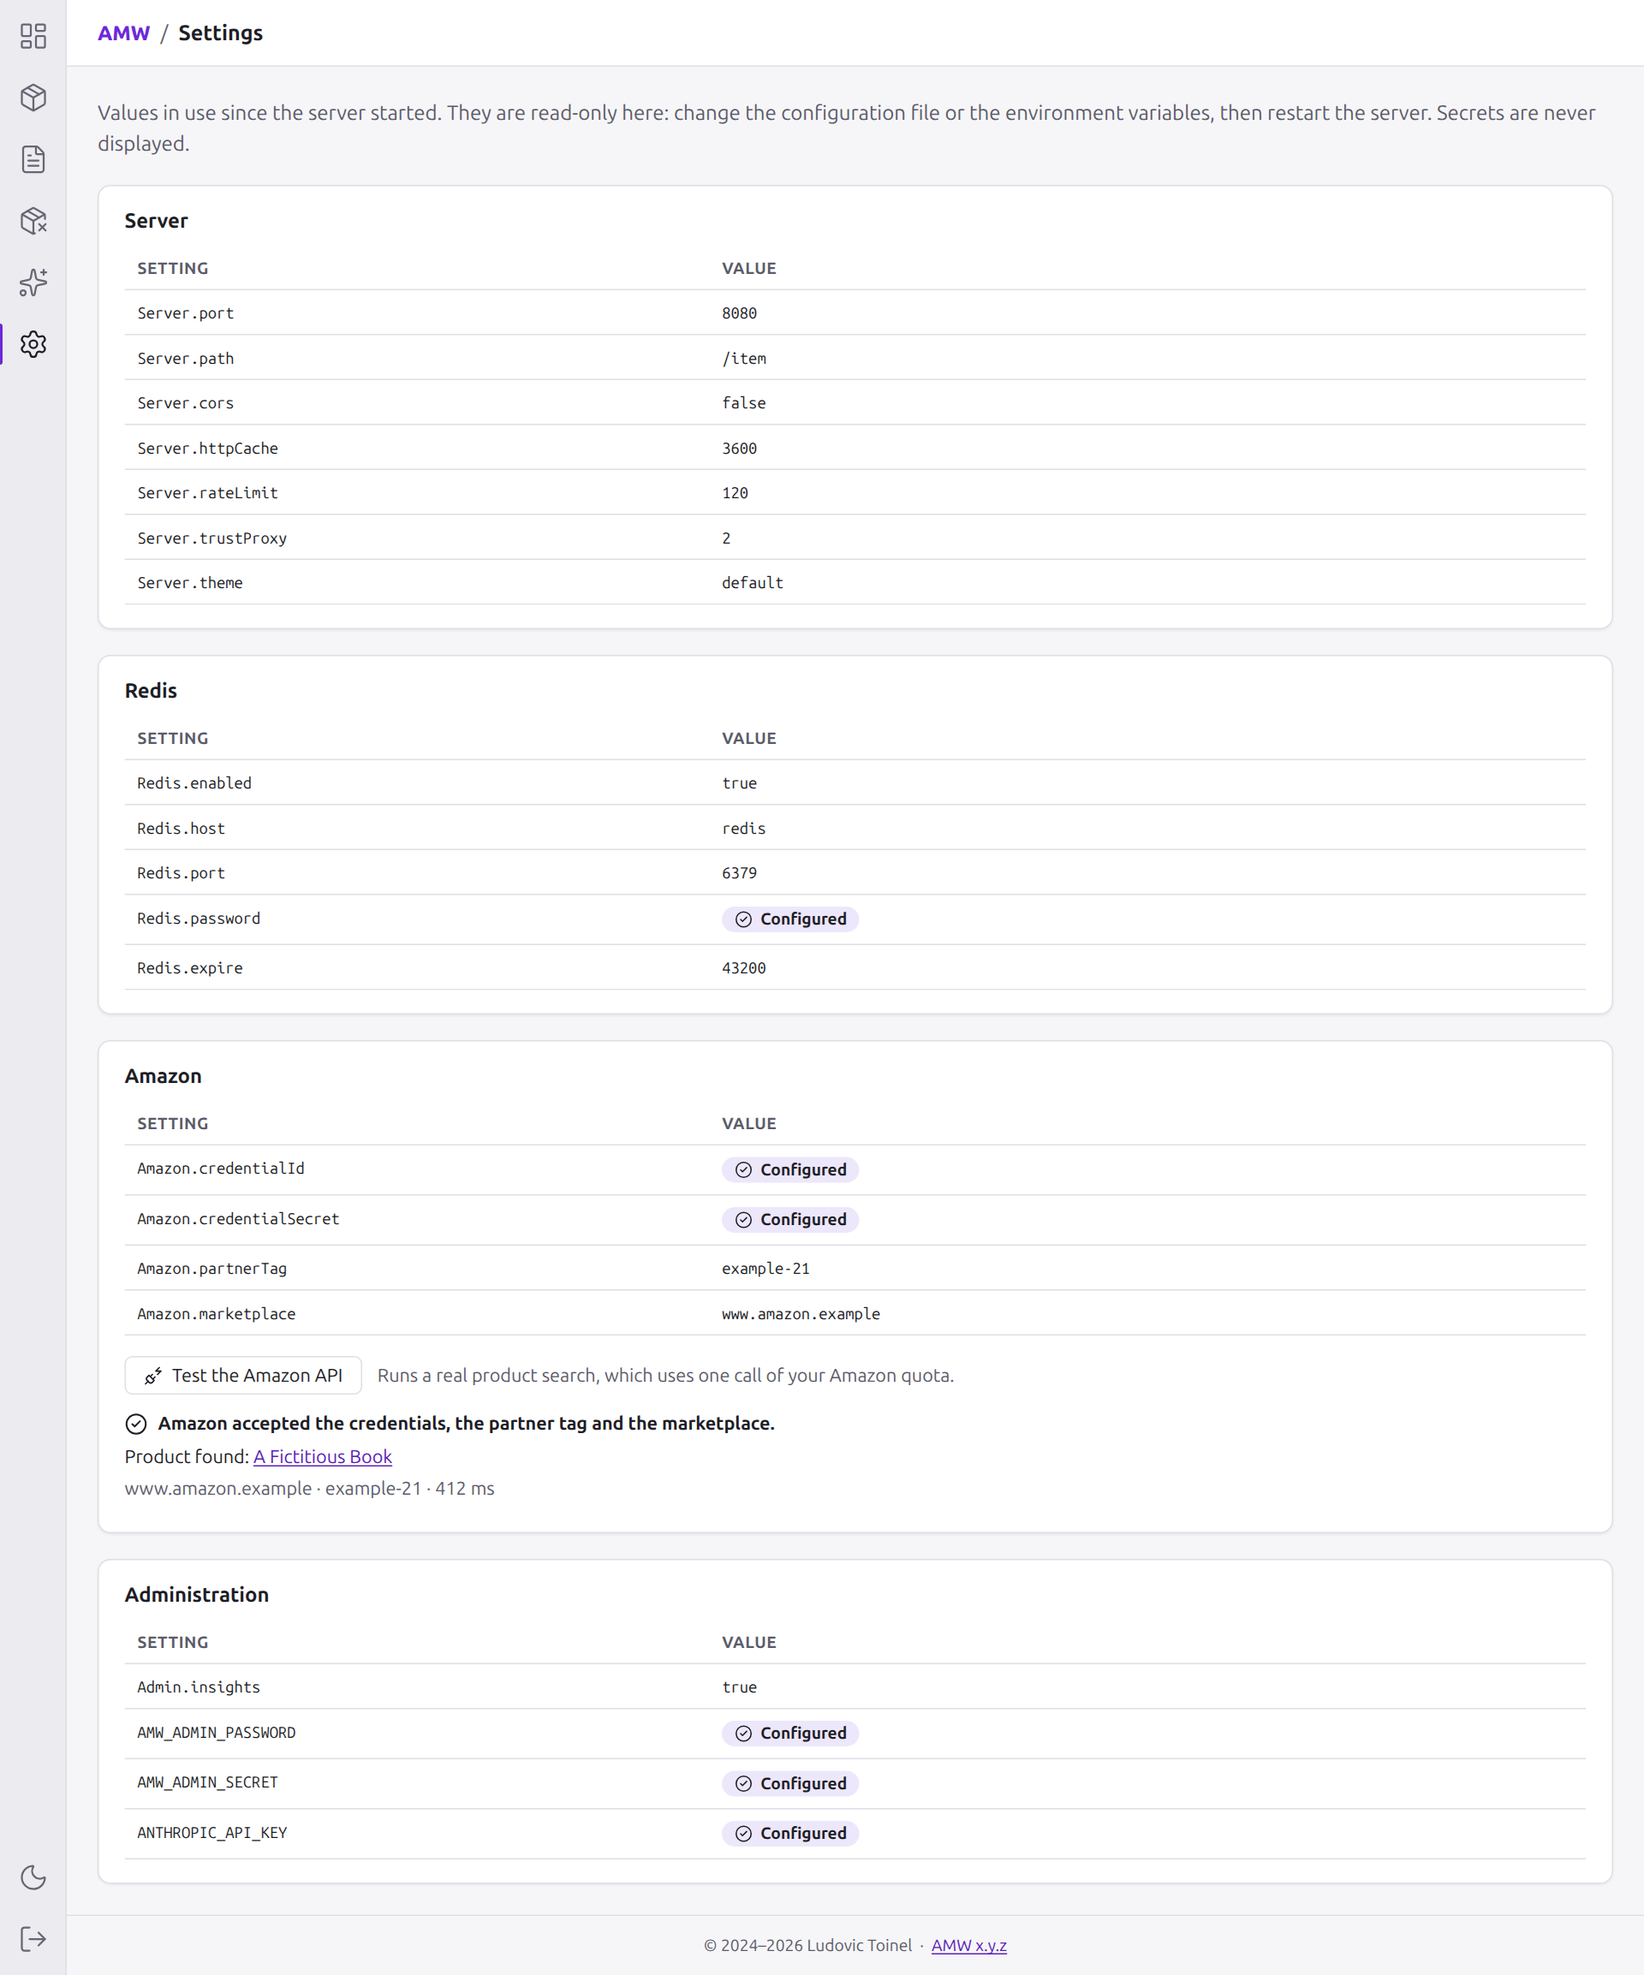
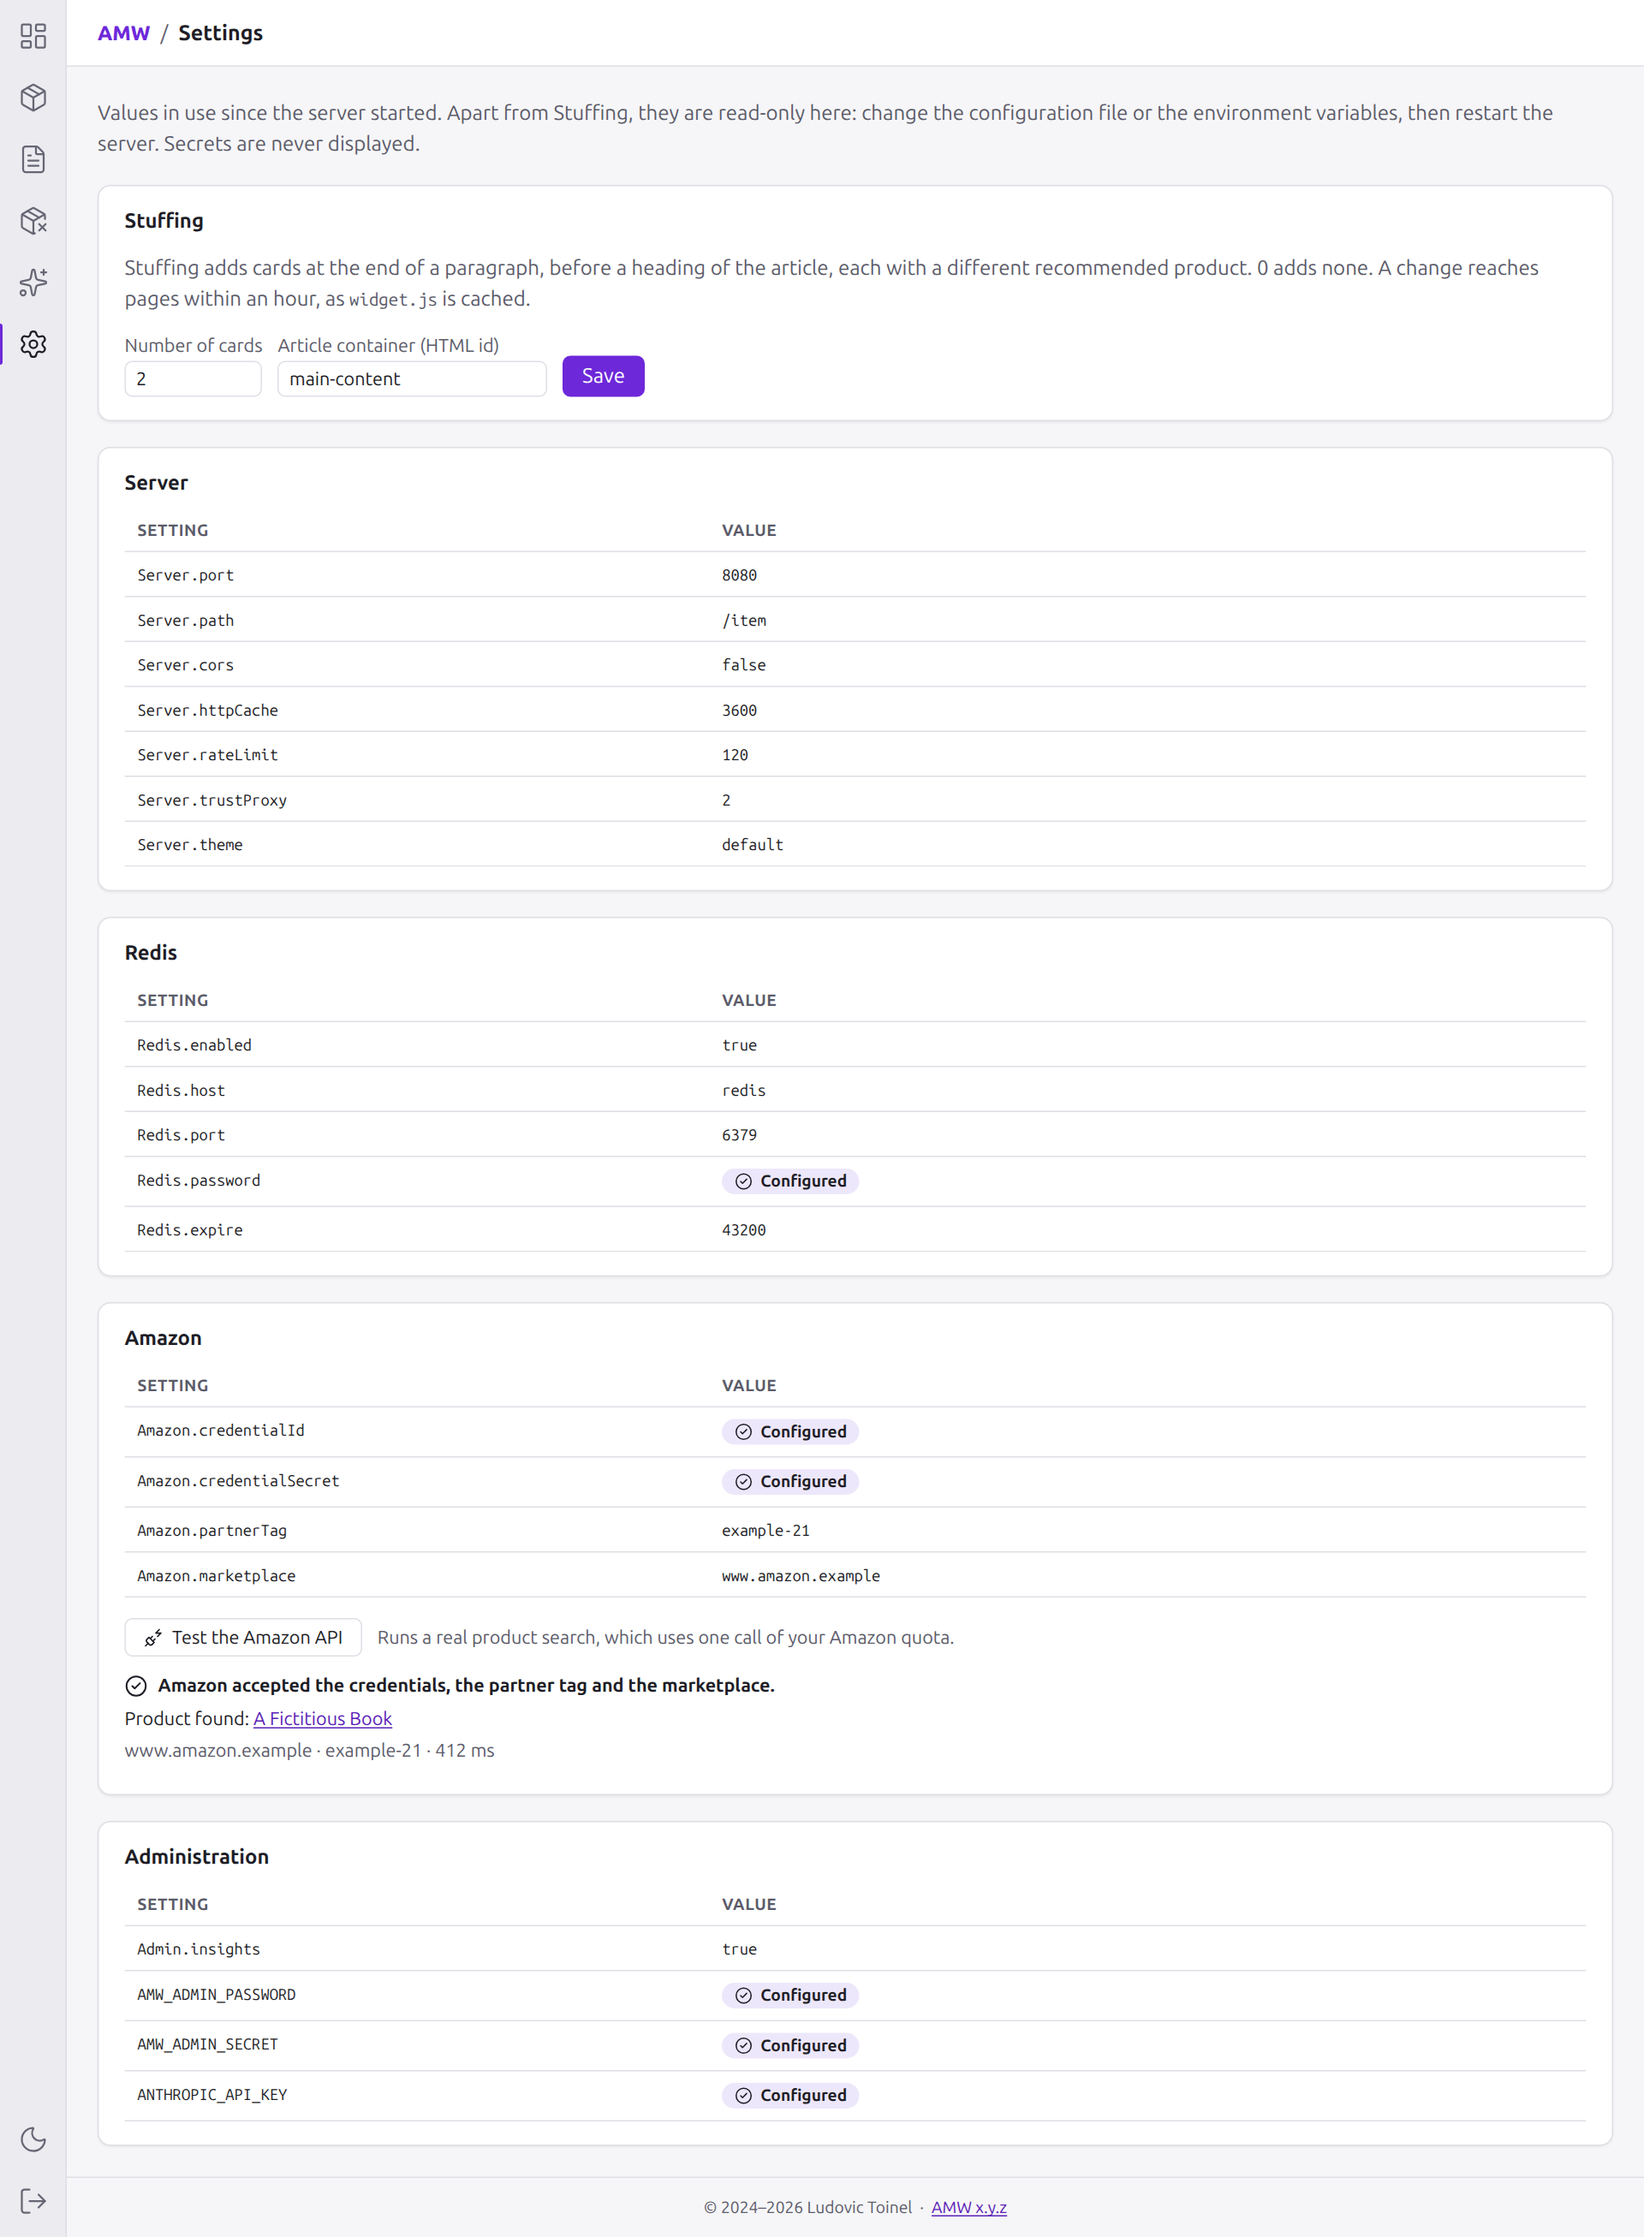
docs(admin): show Stuffing in the settings screenshot (#327)
The view no longer calls every setting read-only either, as Stuffing can
be changed there.

Refs #326

diff --git a/scripts/docs-admin-fixtures.ts b/scripts/docs-admin-fixtures.ts
@@ -92,6 +92,7 @@ export function adminFixture(apiPath: string, method: string): unknown {
     return { stats: true, retentionDays: 90, version: { release: 'x.y.z', revision: null, buildDate: null } };
   }
   if (apiPath === 'settings') return SETTINGS;
+  if (apiPath === 'stuffing') return { count: 2, containerId: 'main-content', editable: true, recommendationEnabled: true };
   if (apiPath === 'amazon/test' && method === 'POST') {
     return {
       ok: true, marketplace: 'www.amazon.example', partnerTag: 'example-21', checkedAt: new Date().toISOString(), durationMs: 412, cached: false,

diff --git a/admin/src/components/SettingsView.vue b/admin/src/components/SettingsView.vue
@@ -54,8 +54,8 @@ onMounted(async () => {
 
     <template v-else>
       <p class="muted">
-        Values in use since the server started. They are read-only here: change the configuration file or the
-        environment variables, then restart the server. Secrets are never displayed.
+        Values in use since the server started. Apart from Stuffing, they are read-only here: change the configuration
+        file or the environment variables, then restart the server. Secrets are never displayed.
       </p>
 
       <StuffingForm @logout="emit('logout')" />
